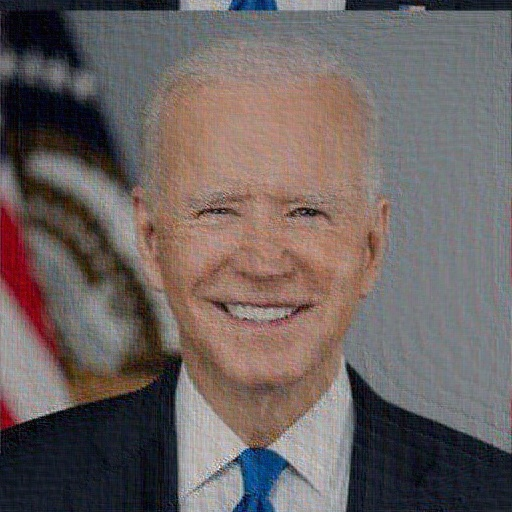
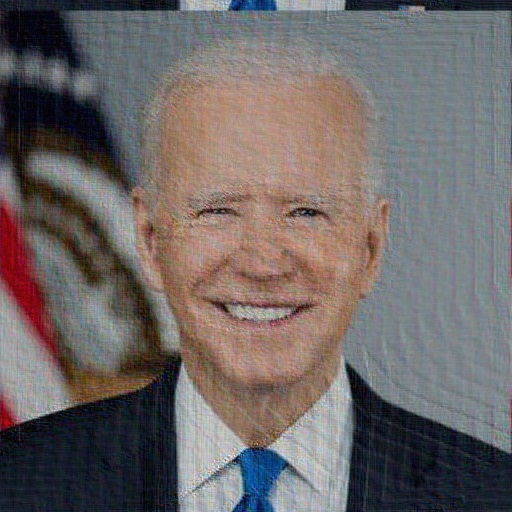
add pyramid canny edge detector

diff --git a/main.py b/main.py
@@ -9,6 +9,7 @@ import scipy.io as scio
 def save_image(img, name):
     img = (img - np.min(img)) / (np.max(img) - np.min(img))
     cv2.imwrite(name, (img * 255).astype(np.uint8))
+    return img
 
 
 def DFT(img):
@@ -19,29 +20,32 @@ def IDFT(img):
     return np.fft.ifft2(np.fft.ifftshift(img))
 
 
-def visualize_DFT(img, display=True):
+def visualize_DFT(img, name=None):
     img_fft = DFT(img)
     img_fft = np.log(np.abs(img_fft))
-    img_fft = (img_fft - np.min(img_fft)) / (np.max(img_fft) - np.min(img_fft))
-    if display:
-        save_image(img_fft, 'log_dft.jpg')
+    img_fft = save_image(img_fft, name)
     return img_fft
 
 
 def get_inner_radius(img):
-    std = 1
-    img = cv2.GaussianBlur(img, (5, 5), std)
-    edge = cv2.Canny((img * 255).astype(np.uint8), 40, 89)
-    avg_r = 0
-    for x in range(edge.shape[0]):
-        for y in range(edge.shape[1]):
-            if edge[x][y] == 255:
-                if avg_r < np.sqrt((x - edge.shape[0] // 2) ** 2 + (y - edge.shape[1] // 2) ** 2):
-                    avg_r = np.sqrt((x - edge.shape[0] // 2) ** 2 + (y - edge.shape[1] // 2) ** 2)
-    r = avg_r + std * 2
-    save_image(edge, 'PSF_edge.jpg')
-    # r = 79 / 2
-    return (3.83 * img.shape[0]) / (2 * np.pi * r)
+    kernel_size = 5
+    r = []
+    ori_size = img.shape[0]
+    while img.shape[0] > 64:
+        img = cv2.GaussianBlur(img, (kernel_size, kernel_size), 1)
+        edge = cv2.Canny((img * 255).astype(np.uint8), 40, 90)
+        max_r = 0
+        for x in range(edge.shape[0]):
+            for y in range(edge.shape[1]):
+                if edge[x][y] == 255:
+                    distance = np.sqrt((x - edge.shape[0] // 2) ** 2 + (y - edge.shape[1] // 2) ** 2)
+                    if max_r < distance:
+                        max_r = distance
+        r.append(max_r * ori_size / img.shape[0])
+        save_image(edge, f'PSF_edge_{img.shape[0]}.jpg')
+        img = cv2.resize(img, (img.shape[0] // 2, img.shape[1] // 2))
+    r = np.mean(r) + kernel_size / 2
+    return (3.83 * ori_size) / (2 * np.pi * r)
 
 
 def HoughTransform(img, delta_theta=1.0, delta_rho=1.0):
@@ -55,26 +59,33 @@ def HoughTransform(img, delta_theta=1.0, delta_rho=1.0):
         for y in range(img.shape[1]):
             if img[x][y] == 255:
                 r = x * cosine + y * sine
-                r = ((r + D) / (2 * D) * len(rho)).astype(np.int32)
+                r = ((r + D) / (2 * D) * len(rho - 1)).astype(np.int32)
                 for i in range(len(theta)):
                     accumulator[r[i], i] += 1
     return accumulator, theta, rho
 
 
 def get_motion_blur_params(img):
-    std = 0.7
-    img = cv2.GaussianBlur(img, (5, 5), std)
-    edge = cv2.Canny((img * 255).astype(np.uint8), 72, 130)
-    accumulator, theta, rho = HoughTransform(edge, delta_theta=1, delta_rho=1)
-    save_image(accumulator, 'MB_accumulator.jpg')
-    _, c = np.unravel_index(np.argmax(accumulator), accumulator.shape)
-    r = np.argsort(accumulator[:, c])[-2:]
-    rho_1, rho_2 = rho[r]
-    theta = theta[c]
-    distance = np.abs(rho_1 - rho_2) + std * 5
+    kernel_size = 5
+    ori_size = img.shape[0]
+    distance = []
+    angle = []
+    while img.shape[0] > 64:
+        img = cv2.GaussianBlur(img, (kernel_size, kernel_size), 0.7)
+        edge = cv2.Canny((img * 255).astype(np.uint8), 72, 130)
+        accumulator, theta, rho = HoughTransform(edge, delta_theta=1, delta_rho=1)
+        save_image(accumulator, 'MB_accumulator.jpg')
+        _, c = np.unravel_index(np.argmax(accumulator), accumulator.shape)
+        r = np.argsort(accumulator[:, c])[-2:]
+        rho_1, rho_2 = rho[r]
+        angle.append(theta[c])
+        distance.append((np.abs(rho_1 - rho_2) + kernel_size / 2) * ori_size / img.shape[0])
+        save_image(edge, f'MB_edge_{img.shape[0]}.jpg')
+        img = cv2.resize(img, (img.shape[0] // 2, img.shape[1] // 2))
+    theta = np.mean(angle)
+    distance = np.mean(distance)
     b = -1 / (distance / 2 / np.sin(theta / 180 * np.pi))
     a = -1 / (distance / 2 / np.cos(theta / 180 * np.pi))
-    save_image(edge, 'MB_edge.jpg')
     # a = -0.021
     # b = 97 / 57 * 0.021
     # a = -2 / 15
@@ -125,7 +136,7 @@ def restore_Trump(img, R=None, K=50):
     :return: The restored image of Trump
     """
     img_gray = cv2.cvtColor(img, cv2.COLOR_BGR2GRAY)
-    img_fft = visualize_DFT(img_gray, display=False)
+    img_fft = visualize_DFT(img_gray, name="Trump_fft.jpg")
     R = get_inner_radius(img_fft) if R is None else R
     PSF_kernel = get_PSF_kernel(img_fft.shape[0], R)
     restored_img = Wiener_filter(img, PSF_kernel, K)
@@ -143,7 +154,7 @@ def restore_Biden(img, a=None, b=None, T=None, K=50):
     :return: restored image of Biden
     """
     img_gray = cv2.cvtColor(img, cv2.COLOR_BGR2GRAY)
-    img_fft = visualize_DFT(img_gray, display=True)
+    img_fft = visualize_DFT(img_gray, name="Biden_fft.jpg")
     a, b, T = get_motion_blur_params(img_fft) if a is None or b is None or T is None else (a, b, T)
     MB_kernel = get_MotionBlur_kernel(img_gray.shape[0], a, b, T)
     restored_img = Wiener_filter(img, MB_kernel, K)
@@ -180,6 +191,6 @@ if __name__ == "__main__":
     res_Biden = restore_Biden(Biden)
     save_image(res_Trump, 'restored_Trump.jpg')
     save_image(res_Biden, 'restored_Biden.jpg')
-    pyramids = Pyramids()
-    blend = pyramids.pyramid_blending(res_Trump, res_Biden, mask)
-    cv2.imwrite('Biden&Trump.jpg', pyramids.reconstruct(blend))
+    # pyramids = Pyramids()
+    # blend = pyramids.pyramid_blending(res_Trump, res_Biden, mask)
+    # cv2.imwrite('Biden&Trump.jpg', pyramids.reconstruct(blend))
